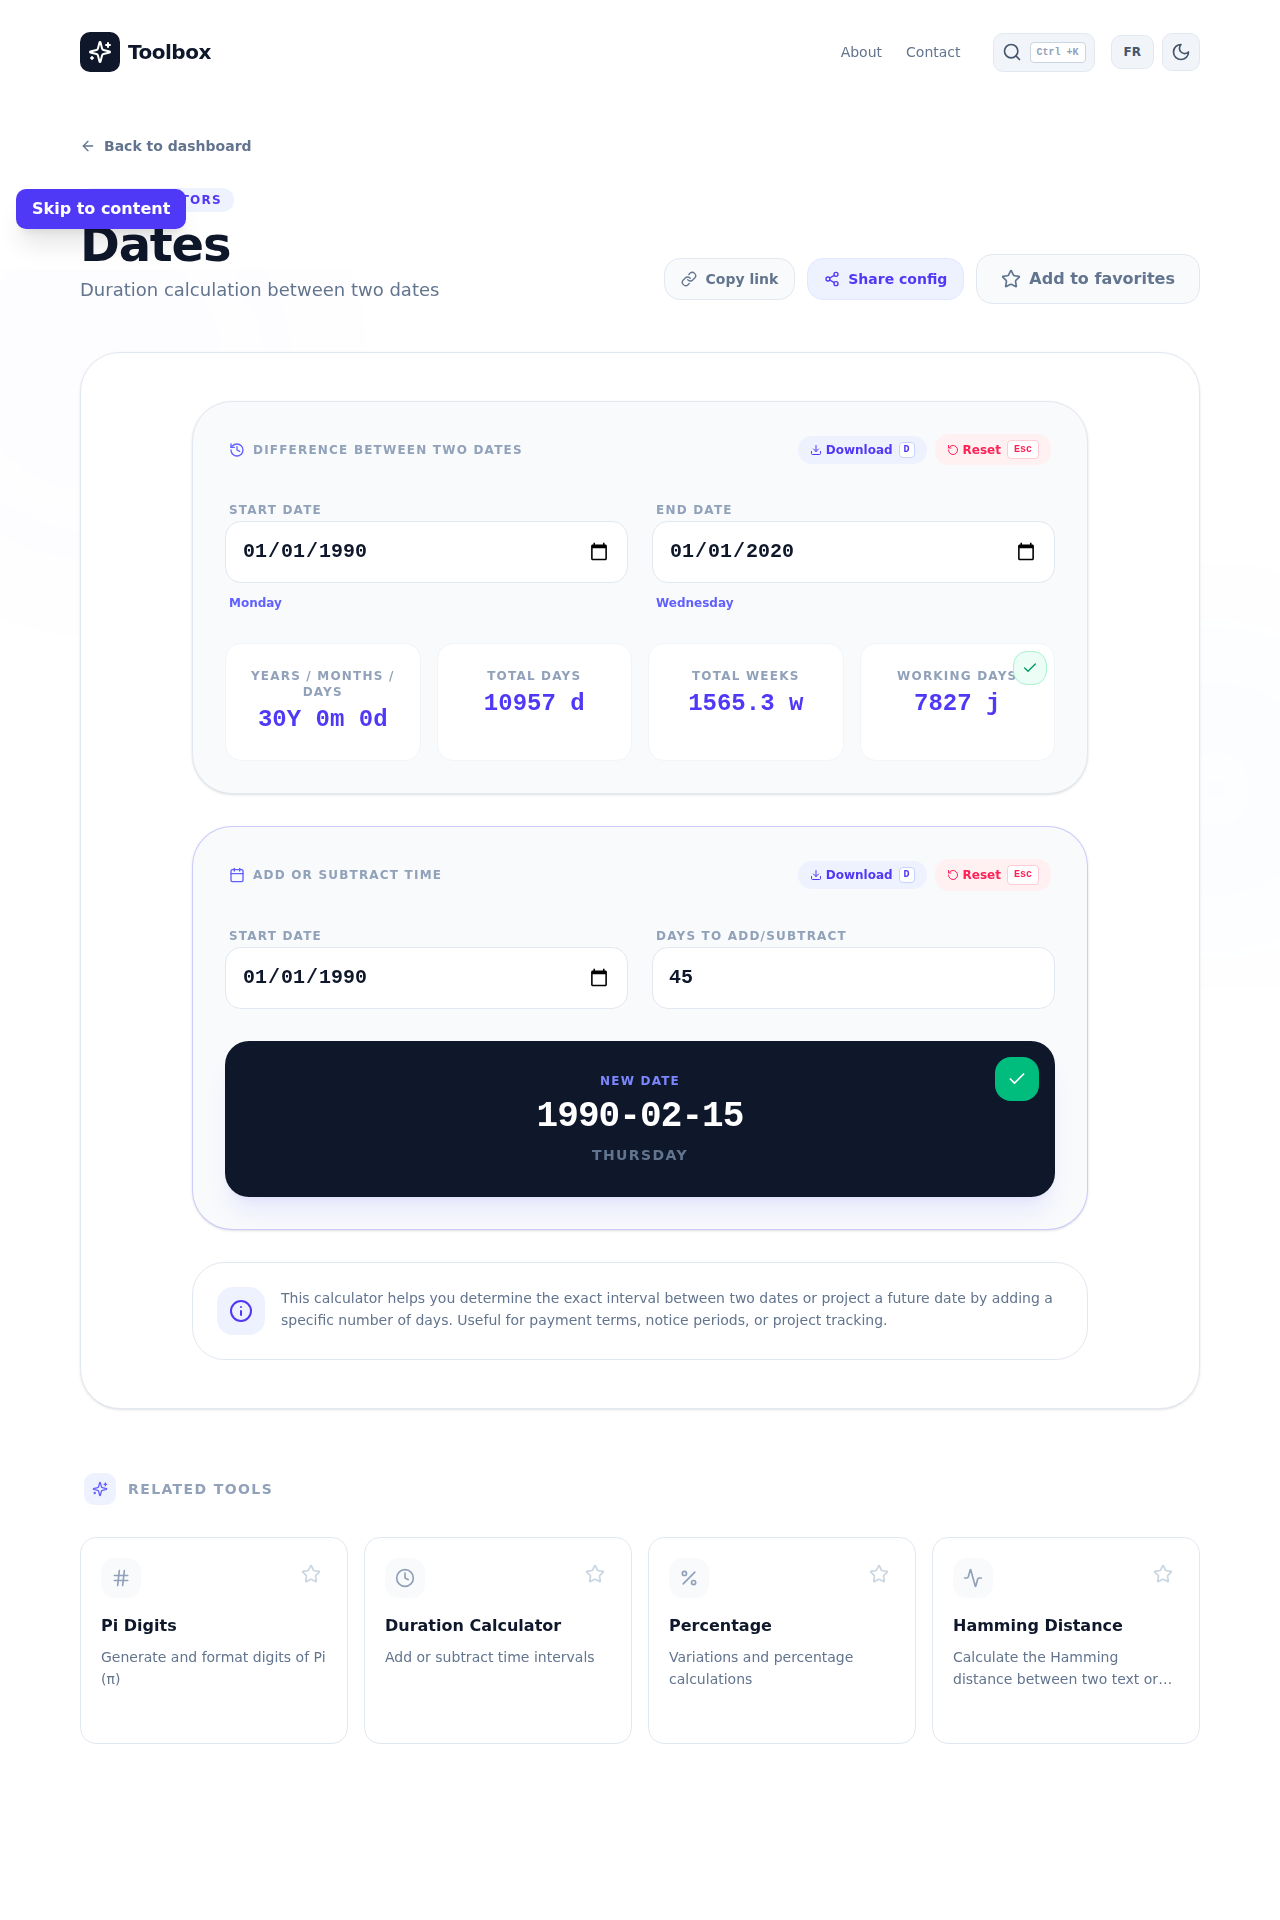
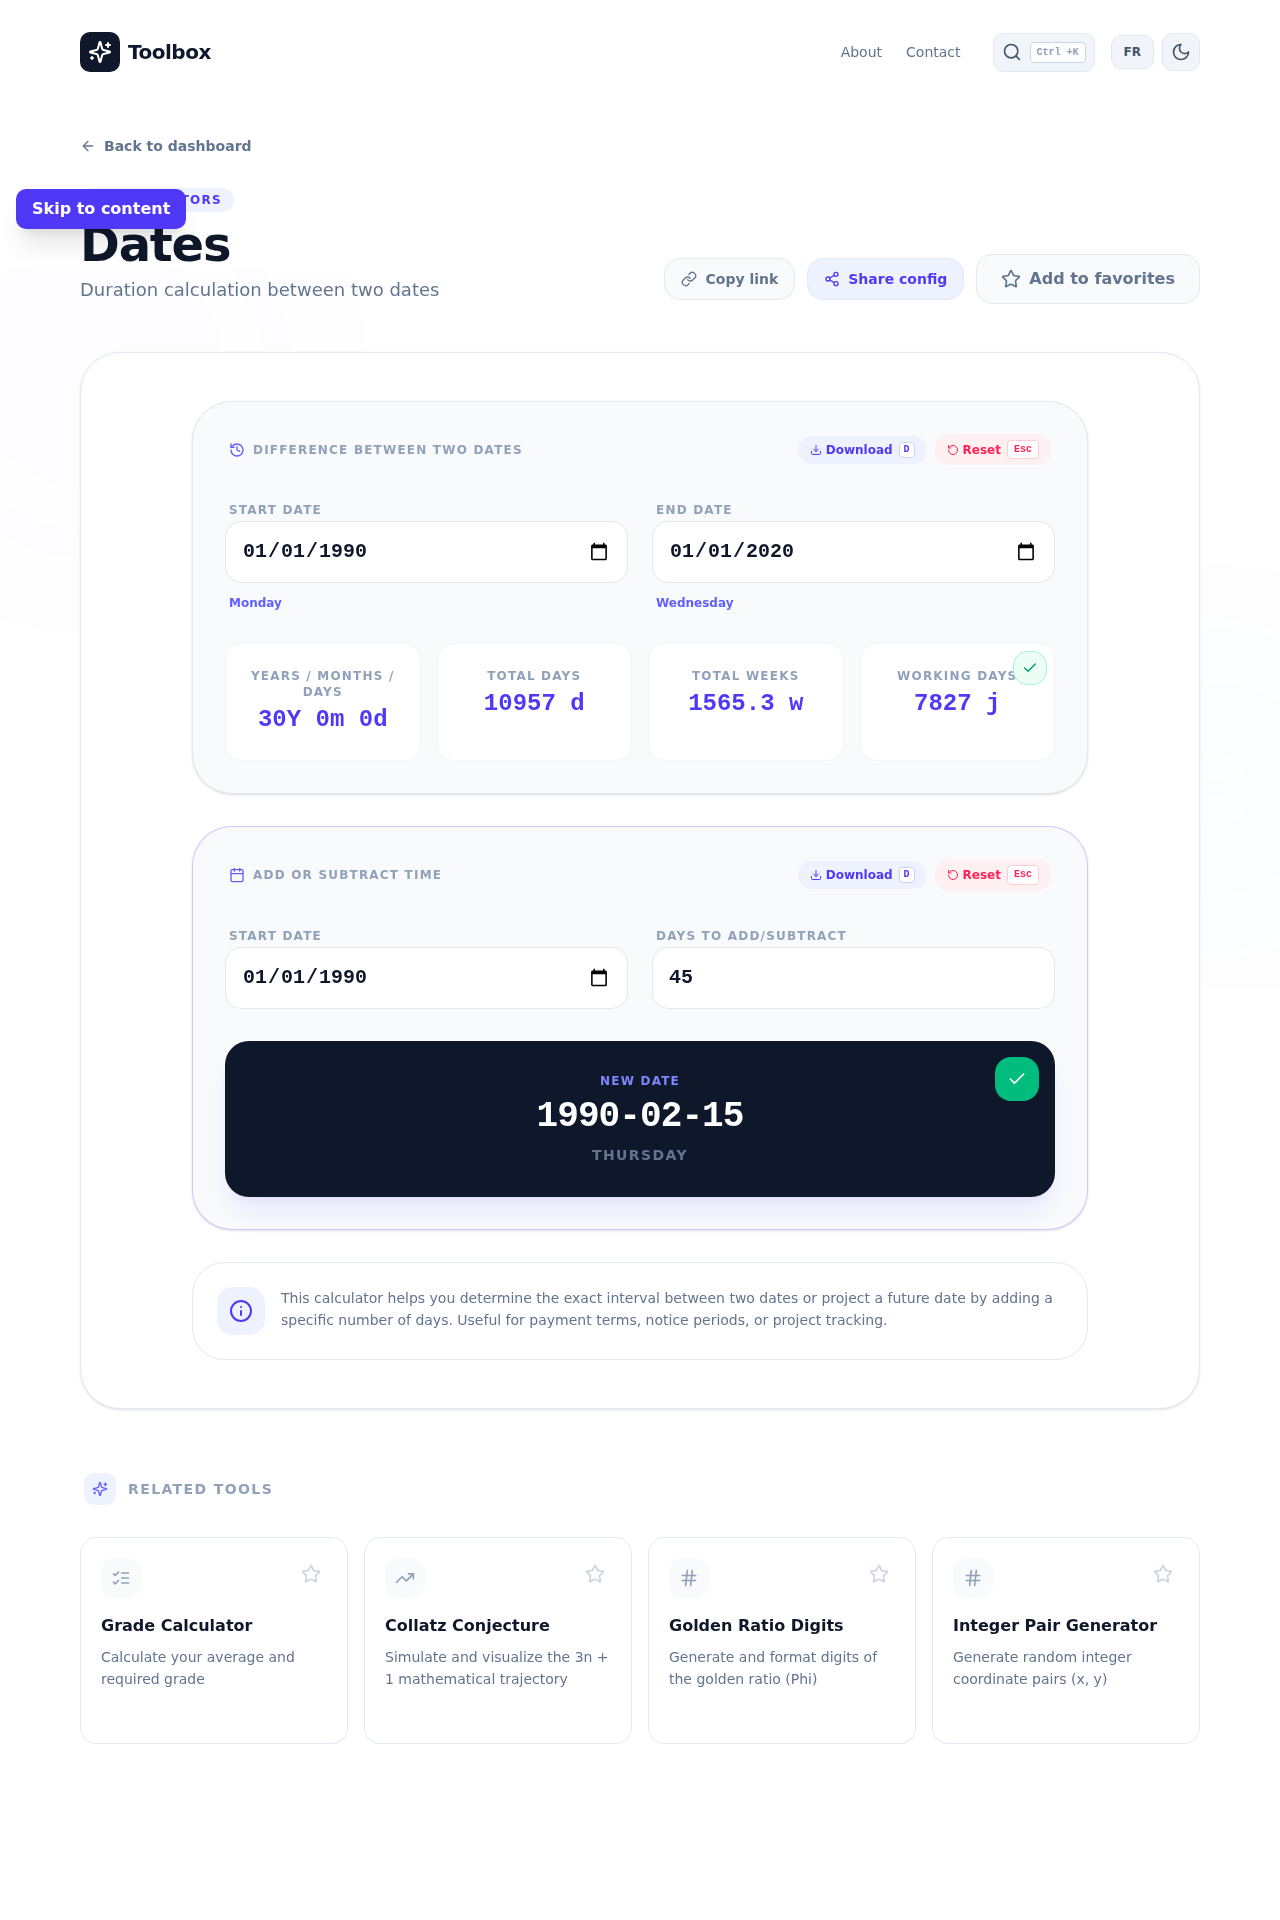
feat: Upgrade JSONPathTester with interactive presets, Kbd shortcuts, and premium UX feedback (#753)
Upgraded the JSONPath Tester component to incorporate high-fidelity interactive presets (E-Commerce Store and User Directory) with secure, non-eval query paths. Implemented visual <Kbd> shortcut badges and global listeners ('Esc' to clear inputs and focus #json-input, 'C' to copy output when unfocused) protected by a useRef-backed handlersRef pattern to avoid stale closures. Added sonner success toasts for copying, clearing, and preset loading actions, and added full bilingual i18n support in both English and French. Covered with complete Playwright integration tests.

diff --git a/components/JSONPathTester.tsx b/components/JSONPathTester.tsx
@@ -1,7 +1,9 @@
-import { useState, useEffect } from 'react';
-import { FileCode, Search, Copy, Check, Trash2, AlertCircle, Terminal, Download, Info } from 'lucide-react';
+import { useState, useEffect, useRef, useCallback } from 'react';
+import { FileCode, Search, Copy, Check, Trash2, AlertCircle, Terminal, Download, Info, Sparkles } from 'lucide-react';
 import { JSONPath } from 'jsonpath-plus';
 import { useTranslation } from 'react-i18next';
+import { toast } from 'sonner';
+import { Kbd } from './ui/Kbd';
 
 const MAX_LENGTH = 100000;
 
@@ -13,6 +15,8 @@ export function JSONPathTester({ initialData, onStateChange }: { initialData?: a
   const [error, setError] = useState('');
   const [copied, setCopied] = useState(false);
 
+  const jsonInputRef = useRef<HTMLTextAreaElement>(null);
+
   useEffect(() => {
     onStateChange?.({ jsonInput, pathInput, output });
   }, [jsonInput, pathInput, output]);
@@ -20,7 +24,10 @@ export function JSONPathTester({ initialData, onStateChange }: { initialData?: a
   const handleTest = () => {
     try {
       setError('');
-      if (!jsonInput.trim()) return;
+      if (!jsonInput.trim()) {
+        setOutput('');
+        return;
+      }
       if (jsonInput.length > MAX_LENGTH) {
         setError(t('error.max_length', { max: MAX_LENGTH.toLocaleString() }));
         return;
@@ -45,22 +52,73 @@ export function JSONPathTester({ initialData, onStateChange }: { initialData?: a
   useEffect(() => {
     if (jsonInput.trim() && pathInput.trim()) {
       handleTest();
+    } else if (!jsonInput.trim()) {
+      setOutput('');
     }
   }, [jsonInput, pathInput]);
 
-  const handleCopy = () => {
+  const handleCopy = useCallback(() => {
     if (!output) return;
     navigator.clipboard.writeText(output);
     setCopied(true);
+    toast.success(t('jsonpath.copied_toast') || 'Result copied to clipboard!');
     setTimeout(() => setCopied(false), 2000);
-  };
+  }, [output, t]);
 
-  const handleClear = () => {
+  const handleClear = useCallback(() => {
     setJsonInput('');
     setPathInput('$');
     setOutput('');
     setError('');
-  };
+    toast.success(t('jsonpath.cleared_toast') || 'Inputs cleared!');
+    jsonInputRef.current?.focus();
+  }, [t]);
+
+  // Use local useRef-backed handlersRef keyboard shortcuts to avoid stale closures
+  const handlersRef = useRef({
+    onCopy: handleCopy,
+    onClear: handleClear,
+  });
+
+  useEffect(() => {
+    handlersRef.current = {
+      onCopy: handleCopy,
+      onClear: handleClear,
+    };
+  }, [handleCopy, handleClear]);
+
+  useEffect(() => {
+    const handleKeyDown = (e: KeyboardEvent) => {
+      const activeEl = document.activeElement;
+      const isEditable = activeEl && (
+        activeEl.tagName === 'INPUT' ||
+        activeEl.tagName === 'TEXTAREA' ||
+        activeEl.tagName === 'SELECT' ||
+        activeEl.getAttribute('contenteditable') === 'true'
+      );
+
+      if (isEditable) {
+        if (e.key === 'Escape') {
+          e.preventDefault();
+          handlersRef.current.onClear();
+        }
+        return;
+      }
+
+      if (e.metaKey || e.ctrlKey || e.altKey || e.shiftKey) return;
+
+      if (e.key === 'Escape') {
+        e.preventDefault();
+        handlersRef.current.onClear();
+      } else if (e.key.toLowerCase() === 'c') {
+        e.preventDefault();
+        handlersRef.current.onCopy();
+      }
+    };
+
+    window.addEventListener('keydown', handleKeyDown);
+    return () => window.removeEventListener('keydown', handleKeyDown);
+  }, []);
 
   const handleDownload = () => {
     if (!output) return;
@@ -75,14 +133,65 @@ export function JSONPathTester({ initialData, onStateChange }: { initialData?: a
     URL.revokeObjectURL(url);
   };
 
+  const presets = [
+    {
+      name: t('jsonpath.preset_store') || 'E-Commerce Store',
+      json: JSON.stringify({
+        store: {
+          book: [
+            { category: "reference", author: "Nigel Rees", title: "Sayings of the Century", price: 8.95 },
+            { category: "fiction", author: "Evelyn Waugh", title: "Sword of Honour", price: 12.99 },
+            { category: "fiction", author: "Herman Melville", title: "Moby Dick", isbn: "0-553-21311-3", price: 8.99 },
+            { category: "fiction", author: "J. R. R. Tolkien", title: "The Lord of the Rings", isbn: "0-395-19395-8", price: 22.99 }
+          ],
+          bicycle: { color: "red", price: 19.95 }
+        }
+      }, null, 2),
+      path: '$.store.book[*].author'
+    },
+    {
+      name: t('jsonpath.preset_users') || 'User Directory',
+      json: JSON.stringify([
+        { id: 1, name: "Alice Smith", role: "Admin", active: true, contact: { email: "alice@example.com" } },
+        { id: 2, name: "Bob Jones", role: "User", active: false, contact: { email: "bob@example.com" } },
+        { id: 3, name: "Charlie Brown", role: "User", active: true, contact: { email: "charlie@example.com" } }
+      ], null, 2),
+      path: '$[*].contact.email'
+    }
+  ];
+
+  const applyPreset = (json: string, path: string) => {
+    setJsonInput(json);
+    setPathInput(path);
+    toast.success(t('jsonpath.preset_loaded') || 'Preset applied successfully!');
+  };
+
   return (
-    <div className="max-w-6xl mx-auto space-y-8">
+    <div className="max-w-6xl mx-auto space-y-8" role="region" aria-label={t('tool.json-path.name')}>
       {error && (
         <div className="bg-rose-50 dark:bg-rose-500/10 border border-rose-200 dark:border-rose-800 p-4 rounded-2xl flex items-center gap-3 text-rose-600 dark:text-rose-400 font-bold animate-in fade-in slide-in-from-top-2">
           <AlertCircle className="w-5 h-5" />
           {error}
         </div>
       )}
+
+      <div className="flex justify-end gap-3 px-1 items-center">
+        <span className="flex items-center gap-1.5 text-xs font-bold text-slate-400">
+          <Kbd modifier={null} className="bg-white dark:bg-slate-800 border-slate-200 dark:border-slate-700 text-slate-400">Esc</Kbd>
+          {t('common.clear')}
+        </span>
+        <span className="flex items-center gap-1.5 text-xs font-bold text-slate-400 mr-2">
+          <Kbd modifier={null} className="bg-white dark:bg-slate-800 border-slate-200 dark:border-slate-700 text-slate-400">C</Kbd>
+          {t('common.copy')}
+        </span>
+        <button
+          onClick={handleClear}
+          disabled={!jsonInput && output === ''}
+          className="text-xs font-bold px-3 py-1.5 rounded-xl text-rose-500 bg-rose-50 dark:bg-rose-500/10 hover:bg-rose-100 dark:hover:bg-rose-500/20 transition-all flex items-center gap-1 disabled:opacity-50 disabled:cursor-not-allowed focus-visible:ring-2 focus-visible:ring-rose-500 focus-visible:outline-none"
+        >
+          <Trash2 className="w-3.5 h-3.5" aria-hidden="true" /> {t('common.clear')}
+        </button>
+      </div>
 
       <div className="grid grid-cols-1 lg:grid-cols-2 gap-8">
         <div className="space-y-4">
@@ -91,16 +200,10 @@ export function JSONPathTester({ initialData, onStateChange }: { initialData?: a
               <FileCode className="w-4 h-4 text-indigo-500" />
               <label htmlFor="json-input" className="text-xs font-black uppercase tracking-widest text-slate-400 cursor-pointer">{t('jsonpath.json_data')}</label>
             </div>
-            <button
-              onClick={handleClear}
-              disabled={!jsonInput && output === ''}
-              className="text-xs font-bold px-3 py-1 rounded-full text-rose-500 bg-rose-50 dark:bg-rose-500/10 hover:bg-rose-100 transition-all flex items-center gap-1 disabled:opacity-50 disabled:cursor-not-allowed focus-visible:ring-2 focus-visible:ring-rose-500 focus-visible:outline-none"
-            >
-              <Trash2 className="w-3 h-3" /> {t('common.clear')}
-            </button>
           </div>
           <textarea
             id="json-input"
+            ref={jsonInputRef}
             value={jsonInput}
             onChange={(e) => setJsonInput(e.target.value)}
             placeholder='{"store": {"book": [{"title": "Sayings of the Century", "price": 8.95}]}}'
@@ -135,7 +238,7 @@ export function JSONPathTester({ initialData, onStateChange }: { initialData?: a
                 disabled={!output}
                 className="text-xs font-bold px-3 py-1 rounded-full text-indigo-500 bg-indigo-50 dark:bg-indigo-500/10 hover:bg-indigo-100 transition-all flex items-center gap-1 disabled:opacity-50"
               >
-                <Download className="w-3 h-3" />
+                <Download className="w-3.5 h-3.5" />
               </button>
               <button
                 onClick={handleCopy}
@@ -146,7 +249,7 @@ export function JSONPathTester({ initialData, onStateChange }: { initialData?: a
                     : 'text-slate-500 bg-slate-100 dark:bg-slate-800 hover:bg-slate-200'
                 } disabled:opacity-50 disabled:cursor-not-allowed`}
               >
-                {copied ? <Check className="w-3 h-3" /> : <Copy className="w-3 h-3" />} {copied ? t('common.copied') : t('common.copy')}
+                {copied ? <Check className="w-3.5 h-3.5" aria-hidden="true" /> : <Copy className="w-3.5 h-3.5" aria-hidden="true" />} {copied ? t('common.copied') : t('common.copy')}
               </button>
             </div>
           </div>
@@ -157,6 +260,24 @@ export function JSONPathTester({ initialData, onStateChange }: { initialData?: a
             placeholder={t('jsonpath.placeholder_result')}
             className="w-full h-[450px] p-6 bg-slate-50 dark:bg-slate-900 border border-slate-200 dark:border-slate-800 rounded-3xl outline-none font-mono text-sm leading-relaxed text-indigo-600 dark:text-indigo-400 resize-none"
           />
+        </div>
+      </div>
+
+      <div className="space-y-4" role="group" aria-labelledby="jsonpath-presets-heading">
+        <h4 id="jsonpath-presets-heading" className="text-xs font-black uppercase tracking-widest text-slate-400 px-1 flex items-center gap-1.5">
+          <Sparkles className="w-3.5 h-3.5 text-indigo-500" /> {t('jsonpath.presets_title') || 'Quick Presets'}
+        </h4>
+        <div className="grid grid-cols-1 sm:grid-cols-2 gap-4">
+          {presets.map((preset, index) => (
+            <button
+              key={index}
+              onClick={() => applyPreset(preset.json, preset.path)}
+              className="p-5 bg-white dark:bg-slate-900 border border-slate-200 dark:border-slate-800 rounded-2xl text-left hover:border-indigo-500/50 hover:bg-indigo-50/30 dark:hover:bg-indigo-900/10 transition-all group focus-visible:ring-2 focus-visible:ring-indigo-500 focus-visible:outline-none"
+            >
+              <div className="font-bold text-sm mb-1 group-hover:text-indigo-600 dark:group-hover:text-indigo-400 transition-colors">{preset.name}</div>
+              <div className="font-mono text-xs text-slate-400 truncate">{preset.path}</div>
+            </button>
+          ))}
         </div>
       </div>
 

diff --git a/tests/json-path-tester-ux.spec.ts b/tests/json-path-tester-ux.spec.ts
@@ -1,0 +1,94 @@
+import { test, expect } from '@playwright/test';
+
+test.describe('JSONPath Tester Premium UX & Accessibility', () => {
+  test.beforeEach(async ({ page }) => {
+    // Navigate directly to the English route of the JSONPath Tester tool
+    await page.goto('http://localhost:5173/en/outil/json-path');
+    await page.waitForLoadState('networkidle');
+  });
+
+  test('should load default/preset values and correctly evaluate JSONPath query', async ({ page }) => {
+    // Verify standard page headers & text areas are present
+    const header = page.getByRole('heading', { name: 'JSONPath Tester' });
+    await expect(header).toBeVisible();
+
+    const jsonInput = page.locator('#json-input');
+    const pathInput = page.locator('#path-input');
+    const resultOutput = page.locator('#result-output');
+
+    // Input some mock JSON and query
+    await jsonInput.fill(JSON.stringify({ company: { employees: [{ name: "John Doe" }, { name: "Jane Smith" }] } }));
+    await pathInput.fill('$.company.employees[*].name');
+
+    // Verify output with retry-safe expect assertion
+    await expect(resultOutput).toHaveValue(/John Doe/);
+    await expect(resultOutput).toHaveValue(/Jane Smith/);
+  });
+
+  test('should support presets loading and trigger successful toast', async ({ page }) => {
+    // Click on User Directory preset. Use a flexible matcher for preset buttons
+    const userPresetButton = page.locator('button').filter({ hasText: /User Directory/ }).first();
+    await expect(userPresetButton).toBeVisible();
+    await userPresetButton.click();
+
+    // Verify toast is visible
+    const toast = page.locator('li[data-sonner-toast]').filter({ hasText: 'Preset loaded successfully!' }).first();
+    await expect(toast).toBeVisible();
+
+    // Verify inputs have been populated
+    const pathInput = page.locator('#path-input');
+    await expect(pathInput).toHaveValue('$[*].contact.email');
+
+    const resultOutput = page.locator('#result-output');
+
+    // Playwright automatically retries toHaveValue, handling any React state lag
+    await expect(resultOutput).toHaveValue(/alice@example.com/);
+    await expect(resultOutput).toHaveValue(/charlie@example.com/);
+    await expect(resultOutput).toHaveValue(/bob@example.com/);
+  });
+
+  test('should clear inputs, show success toast, and programmatically restore focus on Escape or Clear button click', async ({ page }) => {
+    const jsonInput = page.locator('#json-input');
+    await jsonInput.fill('{"a": 1}');
+
+    const clearButton = page.getByRole('button', { name: 'Clear', exact: true });
+    await expect(clearButton).toBeVisible();
+    await clearButton.click();
+
+    // Verify toast notification
+    const toast = page.locator('li[data-sonner-toast]').filter({ hasText: 'Inputs cleared!' }).first();
+    await expect(toast).toBeVisible();
+
+    // Verify inputs have been cleared/reset
+    await expect(jsonInput).toHaveValue('');
+    const pathInput = page.locator('#path-input');
+    await expect(pathInput).toHaveValue('$');
+
+    // Verify focus is restored to the primary textarea
+    await expect(jsonInput).toBeFocused();
+  });
+
+  test('should copy output and show toast on Copy button click or pressing C key', async ({ page }) => {
+    const jsonInput = page.locator('#json-input');
+    await jsonInput.fill('{"test": "ok"}');
+    await page.waitForTimeout(500);
+
+    const copyButton = page.getByRole('button', { name: 'Copy', exact: true });
+    await expect(copyButton).toBeVisible();
+    await copyButton.click();
+
+    // Verify toast notification
+    const copyToast = page.locator('li[data-sonner-toast]').filter({ hasText: 'Result copied to clipboard!' }).first();
+    await expect(copyToast).toBeVisible();
+
+    // Test Escape keyboard shortcut globally (focus is not on an editable element)
+    await page.evaluate(() => {
+      (document.activeElement as HTMLElement)?.blur();
+    });
+
+    await page.keyboard.press('Escape');
+    const clearToast = page.locator('li[data-sonner-toast]').filter({ hasText: 'Inputs cleared!' }).first();
+    await expect(clearToast).toBeVisible();
+    await expect(jsonInput).toHaveValue('');
+  });
+});

diff --git a/i18n.ts b/i18n.ts
@@ -1169,6 +1169,12 @@ const resources = {
       "jsonpath.example_all_authors": "All authors in document",
       "jsonpath.example_prices": "All prices in store",
       "jsonpath.example_filter": "Books cheaper than 10€",
+      "jsonpath.presets_title": "Quick Presets",
+      "jsonpath.preset_store": "E-Commerce Store",
+      "jsonpath.preset_users": "User Directory",
+      "jsonpath.preset_loaded": "Preset loaded successfully!",
+      "jsonpath.copied_toast": "Result copied to clipboard!",
+      "jsonpath.cleared_toast": "Inputs cleared!",
       "jsontoswift.about_title": "About JSON to Swift conversion",
       "jsontoswift.about_text": "This tool generates Swift structures conforming to the Codable protocol from your JSON data. It automatically handles nested objects and arrays, using standard Swift types like String, Int, Double, and Bool.",
       "jsontoruby.about_title": "About JSON to Ruby conversion",
@@ -5642,6 +5648,12 @@ const resources = {
       "jsonpath.example_all_authors": "Tous les auteurs dans le document",
       "jsonpath.example_prices": "Tous les prix dans le magasin",
       "jsonpath.example_filter": "Livres à moins de 10€",
+      "jsonpath.presets_title": "Exemples Prédéfinis",
+      "jsonpath.preset_store": "Catalogue E-Commerce",
+      "jsonpath.preset_users": "Profils Utilisateurs",
+      "jsonpath.preset_loaded": "Modèle d'exemple chargé avec succès !",
+      "jsonpath.copied_toast": "Résultat copié dans le presse-papiers !",
+      "jsonpath.cleared_toast": "Saisies effacées !",
       "jsontoswift.about_title": "À propos de la conversion JSON en Swift",
       "jsontoswift.about_text": "Cet outil génère des structures Swift conformes au protocole Codable à partir de vos données JSON. Il gère automatiquement les objets imbriqués et les tableaux, en utilisant les types Swift standards comme String, Int, Double et Bool.",
       "jsontoruby.about_title": "À propos de la conversion JSON en Ruby",

diff --git a/verification/verify_json_path.py b/verification/verify_json_path.py
@@ -1,0 +1,27 @@
+from playwright.sync_api import sync_playwright
+import os
+
+def run_cuj(page):
+  # Navigate to the json-path tool
+  page.goto("http://localhost:5173/en/outil/json-path")
+  page.wait_for_load_state("networkidle")
+
+  # Click on User Directory preset
+  user_preset_btn = page.locator('button').filter(has_text="User Directory").first
+  user_preset_btn.click()
+  page.wait_for_timeout(1000)
+
+  # Let's take a screenshot of the finished visual state
+  os.makedirs("/home/jules/verification", exist_ok=True)
+  screenshot_path = "/home/jules/verification/json_path_tester_verification.png"
+  page.screenshot(path=screenshot_path)
+  print(f"Screenshot taken and saved to {screenshot_path}")
+
+if __name__ == "__main__":
+  with sync_playwright() as p:
+    browser = p.chromium.launch(headless=True)
+    page = browser.new_page()
+    try:
+      run_cuj(page)
+    finally:
+      browser.close()
